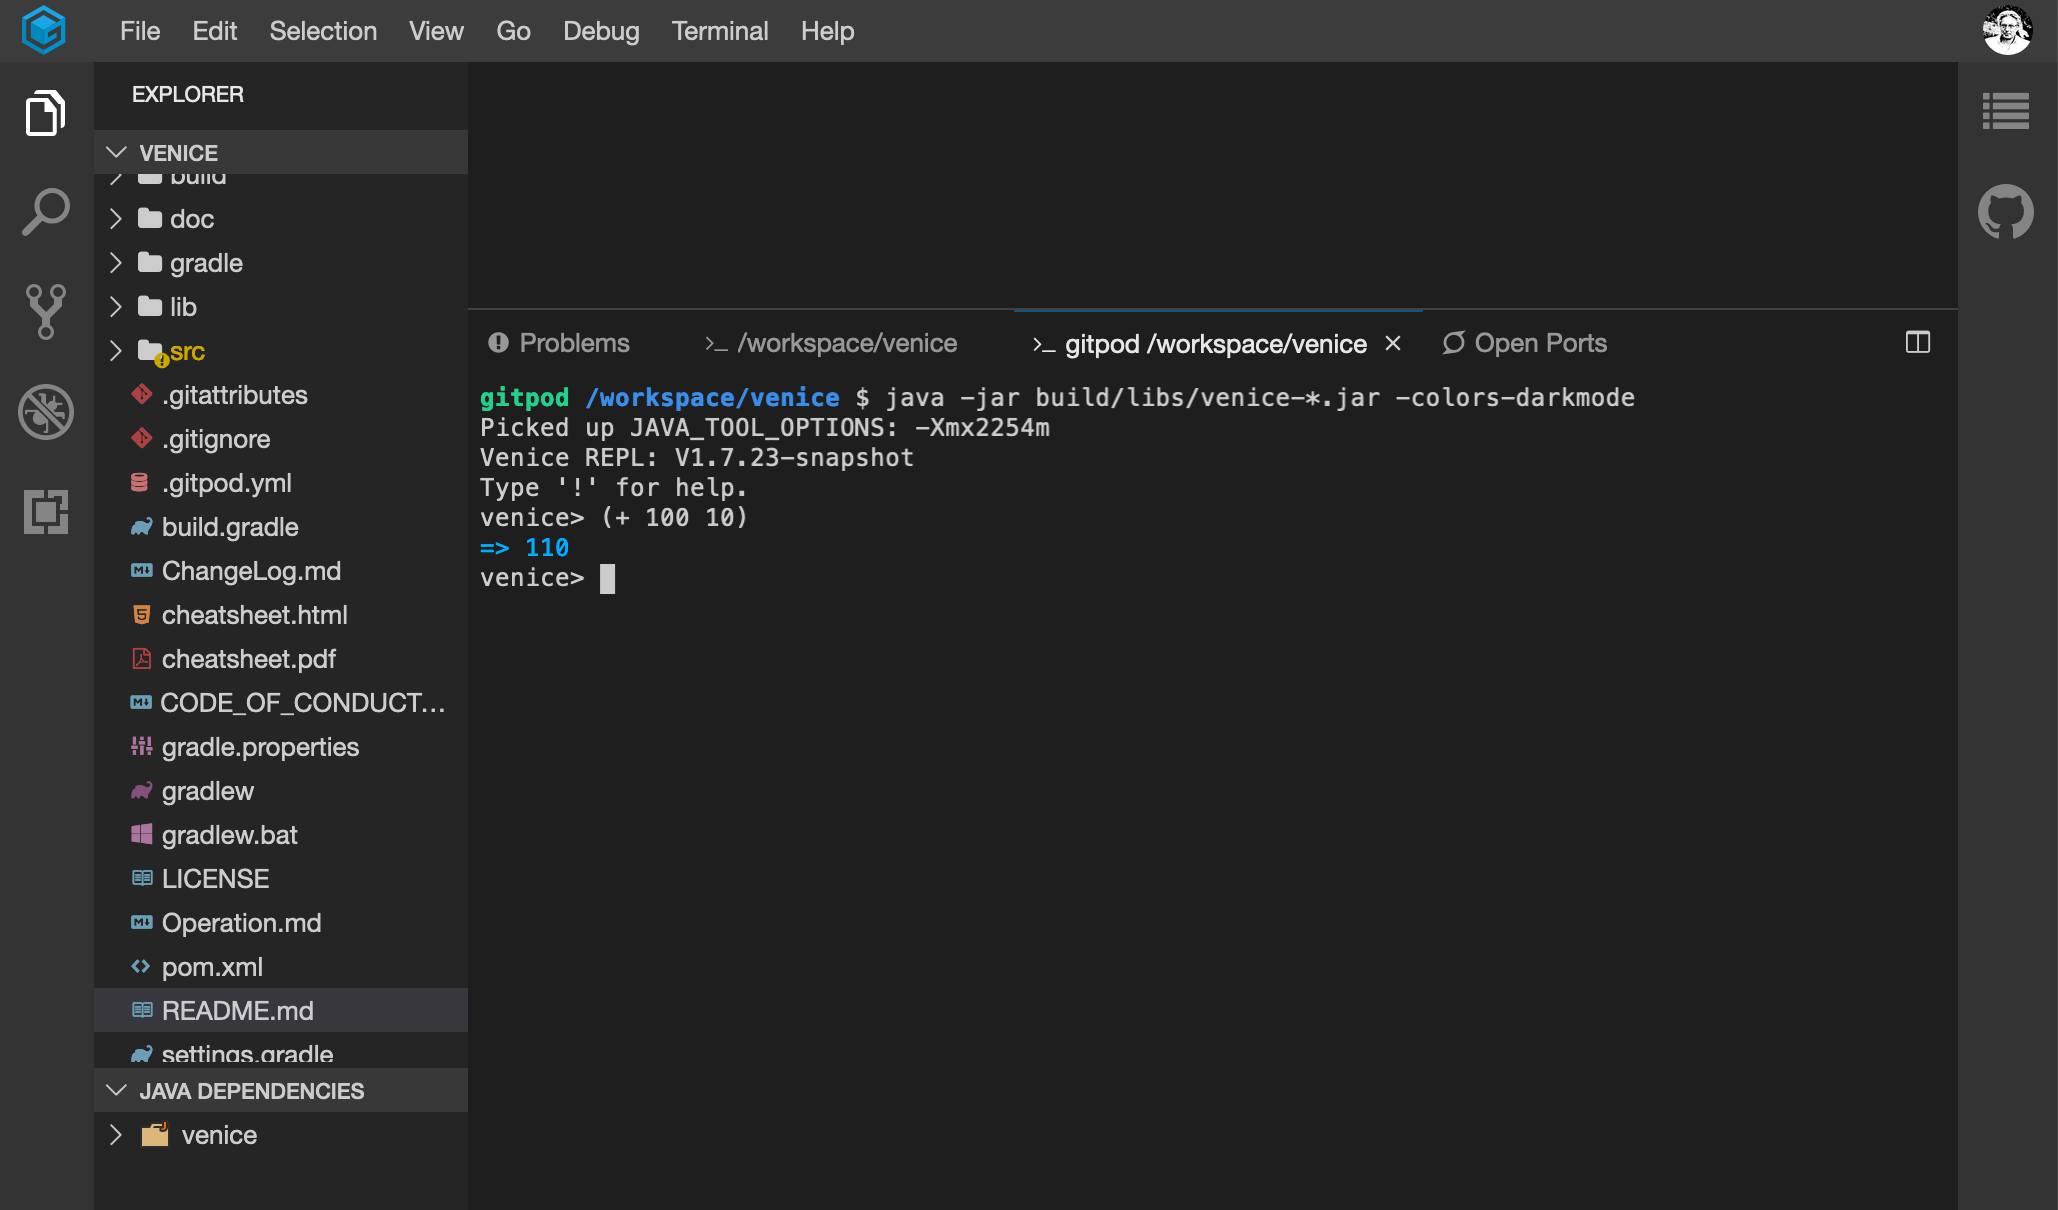
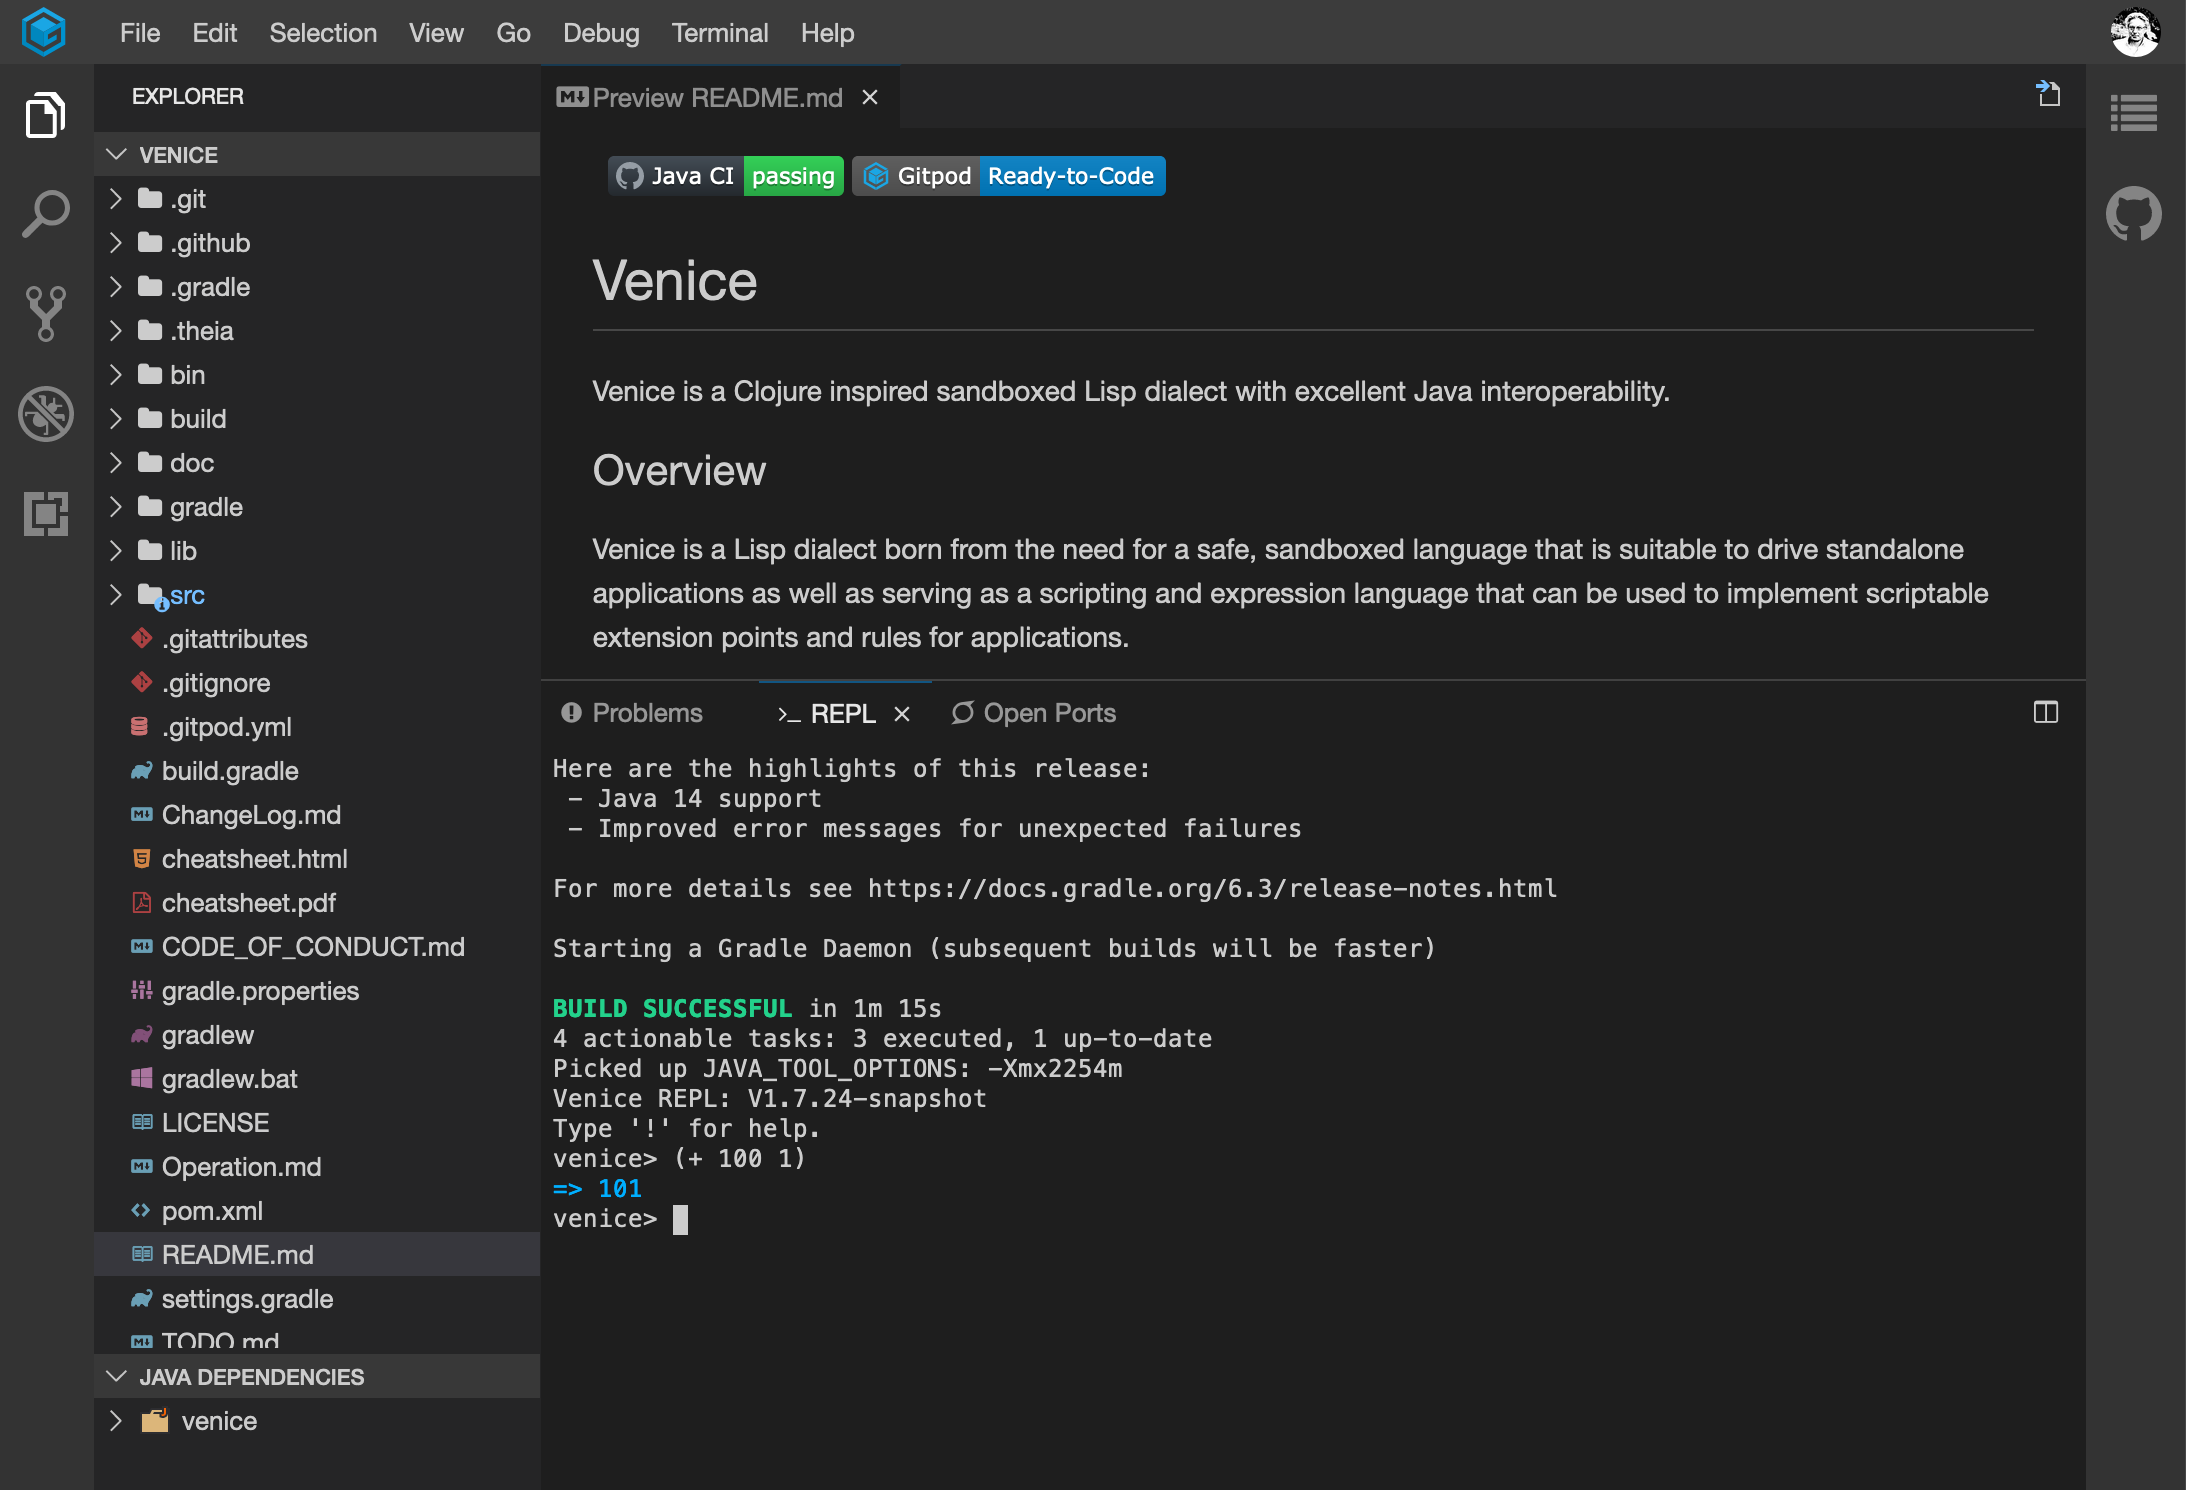
updated start readme

diff --git a/doc/readme/start.md b/doc/readme/start.md
@@ -57,17 +57,23 @@ Just fire up a Venice GitPod workspace in your browser by clicking this button:
 
 Wait until the workspace has been built ...
 
-start a new terminal (menu Terminal -> New Terminal) ...
+The workspace will start a fresh REPL in a terminal
 
-and launch the REPL within the terminal:
+Type an expression like `(+ 1 1)` followed by a `<CR>`
+
+<img src="https://github.com/jlangch/venice/blob/master/doc/assets/gitpod/gitpod-repl.png">
+
+
+#### Manually create a new REPL terminal
+
+Start a new terminal (menu Terminal -> New Terminal) ...
+
+launch the REPL within the terminal:
 
 ```text
 $ java -jar build/libs/venice-*.jar -colors-darkmode
 ```
 
-Type an expression like `(+ 1 1)` followed by a `<CR>`
-
-<img src="https://github.com/jlangch/venice/blob/master/doc/assets/gitpod/gitpod-repl.png">
 
 
 ### 5. Where to head next
